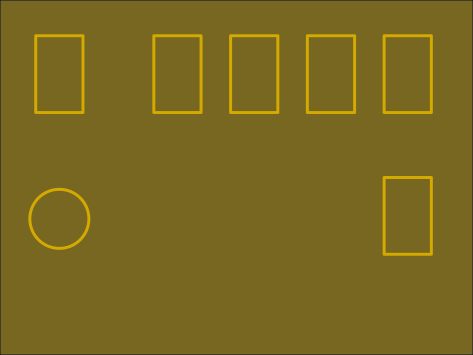
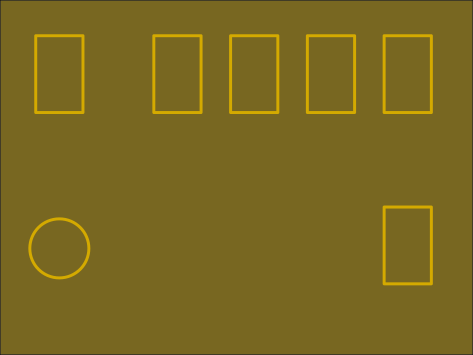
changes

diff --git a/maingame.h b/maingame.h
@@ -25,11 +25,11 @@ public:
 protected:
     // geometry information
     const sf::Vector2f posDeck{62, 60}, posRoom[4]{{318, 60}, {484, 60}, {650, 60}, {816, 60}},
-        szCard{133, 200}, posAvoid{525, 280}, szAvoid{200, 50}, posWeapon{816, 370}, offKilledMonster{0, 40};
-    const sf::FloatRect rectHealt{{64, 412}, {128, 128}};
+        szCard{133, 200}, posAvoid{525, 300}, szAvoid{200, 50}, posWeapon{816, 430}, offKilledMonster{0, 40};
+    const sf::FloatRect rectHealt{{64, 472}, {128, 128}};
     // geometry and data for dialog box
-    const sf::Vector2f posDlg{250, 400}, szDlg{500, 340}, szBtn12{170, 30}, szBtnCancel{80, 30},
-        posBtn1{260, 700}, posBtn2{450, 700}, posCancel{660, 700};
+    const sf::Vector2f posDlg{250, 150}, szDlg{500, 240}, szBtn12{170, 30}, szBtnCancel{80, 30},
+        posBtn1{260, 350}, posBtn2{570, 350}, posCancel{660, 160};
     std::string dlgText, dlgBtn1, dlgBtn2;
     bool dlgCancel;
     // graphics objects

diff --git a/maingame.cpp b/maingame.cpp
@@ -308,10 +308,8 @@ int MainGame::currentCards() const {
 int MainGame::finalScore() {
     if (health <= 0) {
         int score = 0;
-        while (deck.num_cards()) {
-            Card c = deck.pick();
+        for (const Card &c: deck.deck())
             if (c.suit == 's' || c.suit == 'c')  score -= c.value;
-        }
         return score;
     }
     else {
@@ -330,7 +328,7 @@ int MainGame::finalScore() {
 MainGame::UserInput MainGame::showDialog(const std::string &text, const std::string &btn1, const std::string &btn2, bool cancel) {
     dlgText = text;
     txtDialog.setString(dlgText);
-    center(txtDialog, rectDlg, {0, -30});
+    center(txtDialog, rectDlg, cancel ? sf::Vector2f(0, 0): sf::Vector2f(0, -30));
     dlgBtn1 = btn1;
     txtBtn1.setString(dlgBtn1);
     center(txtBtn1, rectBtn1);

diff --git a/cards.h b/cards.h
@@ -21,6 +21,7 @@ public:
     const Card pick();
     void add(const Card&);
     void remove(const char suit, const uint8_t number);
+    const std::vector<Card>& deck() const { return cards; }
 protected:
     std::vector<Card> cards;
     static std::mt19937_64 gen;